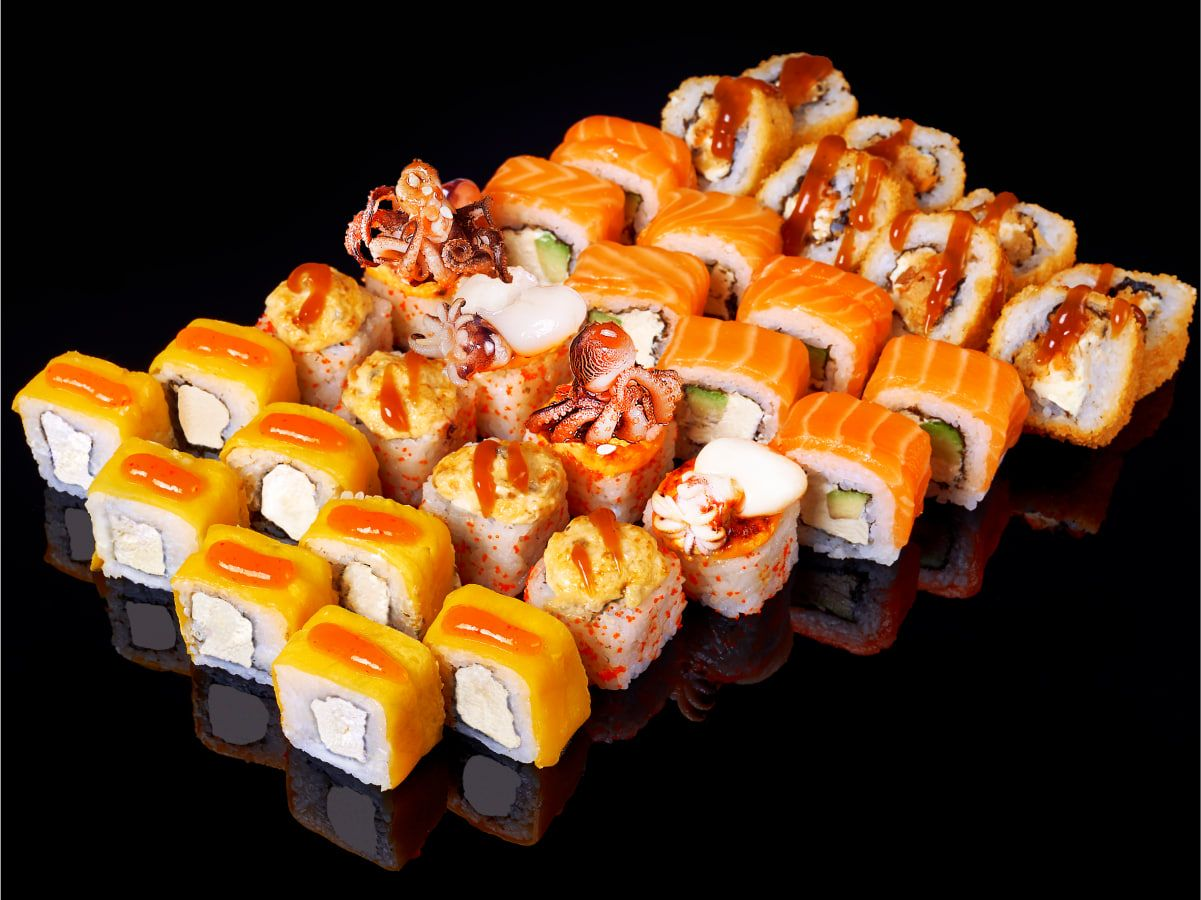
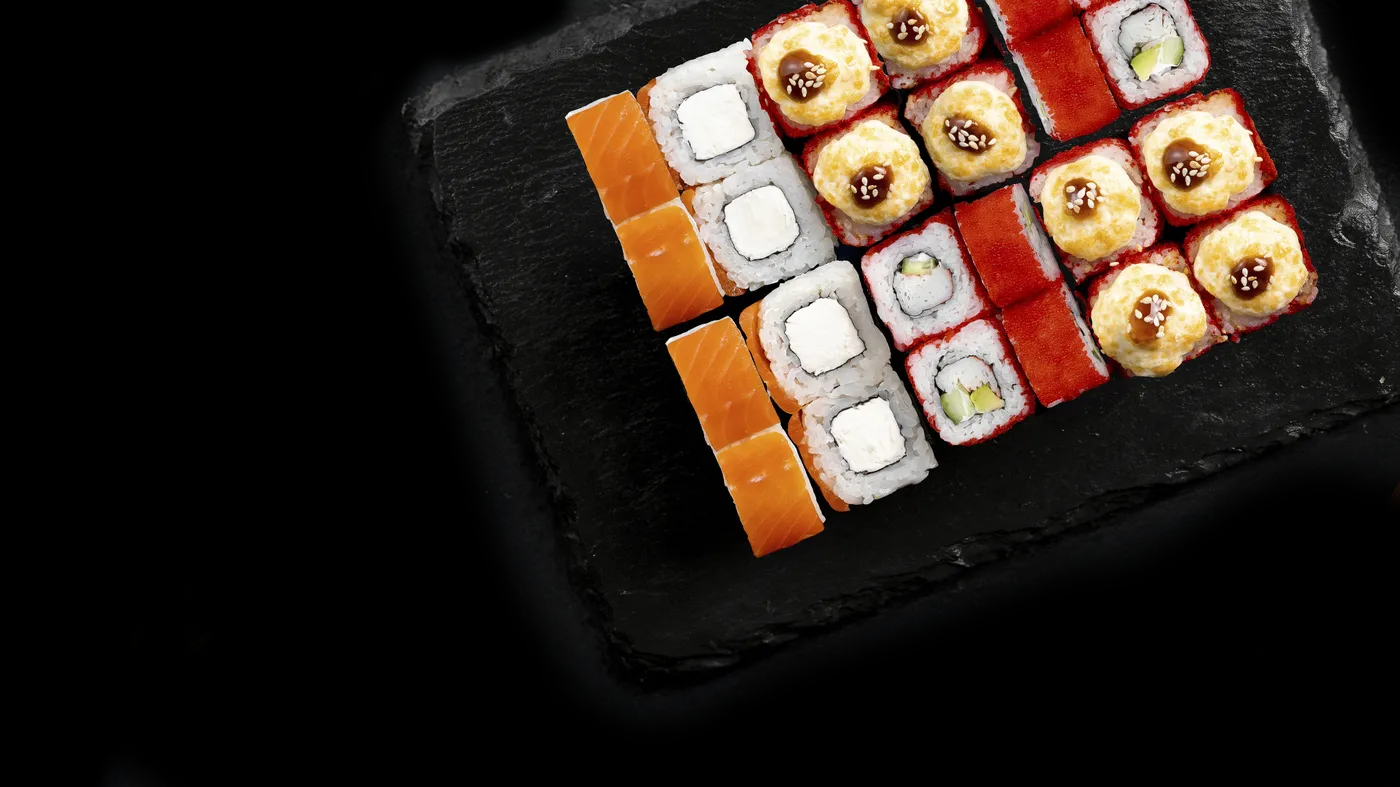
ВЩФЛЫЗВЩФЛ

diff --git a/src/pages/Home.jsx b/src/pages/Home.jsx
@@ -67,7 +67,10 @@ export const Home = () => {
               disableOnInteraction: true,
             }}
           >
- 
+            <SwiperSlide>
+              <img src="/slider/10.webp" decoding="async" loading="eager" alt="Лакинск/Собинка новым клиентам скидки" />
+            </SwiperSlide>
+            
             <SwiperSlide>
               <img src="/slider/hb.webp" decoding="async" loading="eager" alt="Лакинск/Собинка Доставка день рождения скидки" />
             </SwiperSlide>
@@ -104,10 +107,23 @@ export const Home = () => {
             </Link> */}
         <div className="products_in desktop_block">
           <div className="products_left">
-          <Link to="/products/Сеты%20и%20наборы" className="products_block product_one">
+             <div className="products_blocks_two product_blocks_in half_block">
+                <Link to="/products/17%20см%20удовольствия"  className="products_block mini_block">
+                  <img src={assets.pancake}  decoding="async" loading="lazy" alt="Сяки Маки Лакинск/Собинка" />
+                  <h6 id = "pan" ><br/><br/>&nbsp;&nbsp;&nbsp;&nbsp;&nbsp;&nbsp;&nbsp;&nbsp;&nbsp;&nbsp;&nbsp;&nbsp;&nbsp;&nbsp;&nbsp;&nbsp;&nbsp;&nbsp;&nbsp;&nbsp;&nbsp;&nbsp;&nbsp;&nbsp;&nbsp;&nbsp;&nbsp;17 CМ<br/><a id="kitaishina">&nbsp;&nbsp;&nbsp;&nbsp;楽しみ</a>
+                  
+                  </h6>
+                </Link>
+                <Link to="/products/Сеты%20и%20наборы" className="products_block mini_block">
+                    <img src={assets.product1} id="sets" decoding="async" loading="lazy" alt="Сеты Суши Лакинск" />
+                    <h6>СЕТЫ <br/> <a id="kitaishina">セット</a></h6>
+                </Link>
+              </div>
+            {/* <Link to="/products/Сеты%20и%20наборы" className="products_block product_one">
               <img src={assets.product1} id="sets" decoding="async" loading="lazy" alt="Сеты Суши Лакинск" />
               <h6>СЕТЫ <br/> <a id="kitaishina">セット</a></h6>
-            </Link>
+            </Link> */}
+      
  
 
 
@@ -223,6 +239,12 @@ export const Home = () => {
 
         <div className="products_in desktop_media">
           <div className="products_left">
+             <Link to="/products/17%20см%20удовольствия"  className="products_block product_one">
+                  <img src={assets.pancake}  decoding="async" loading="lazy" alt="Сяки Маки Лакинск/Собинка" />
+                  <h6 id = "panM" ><br/><br/>17 CМ<br/>РАДОСТИ
+                  
+                  </h6>
+                </Link>
             <Link to="/products/Сеты%20и%20наборы"  className="products_block product_one">
               <img id="sets" src={assets.product1} loading="lazy" alt="" />
               <h6>

diff --git a/src/assets/index.js b/src/assets/index.js
@@ -25,6 +25,7 @@ import product5 from "./product5.jpg";
 import product6 from "./product6.jpg";
 import product7 from "./product7.jpg";
 import product8 from "./product8.jpg";
+import pancake from "./pan.png";
 import topGradient from "./top-gradient.webp";
 import closeIcon from "./icons/close-icon.svg";
 import minusIcon from "./icons/minus-icon.svg";
@@ -39,6 +40,7 @@ import pizza33 from "./pizza33.jpg"
 
 export default {
   headerBurger,
+  pancake,
   headerLogo,
   headerSearch,
   headerPhone,

diff --git a/src/pages/pages.scss b/src/pages/pages.scss
@@ -233,6 +233,15 @@
   {
     color: #fc3f1d;
   }
+  #panM
+  {
+    margin-left: 75%;
+    text-align: end;
+  }
+  #pan
+  {
+    text-align: end;
+  }
   .products_block {
     width: 100%;
     height: 100%;
